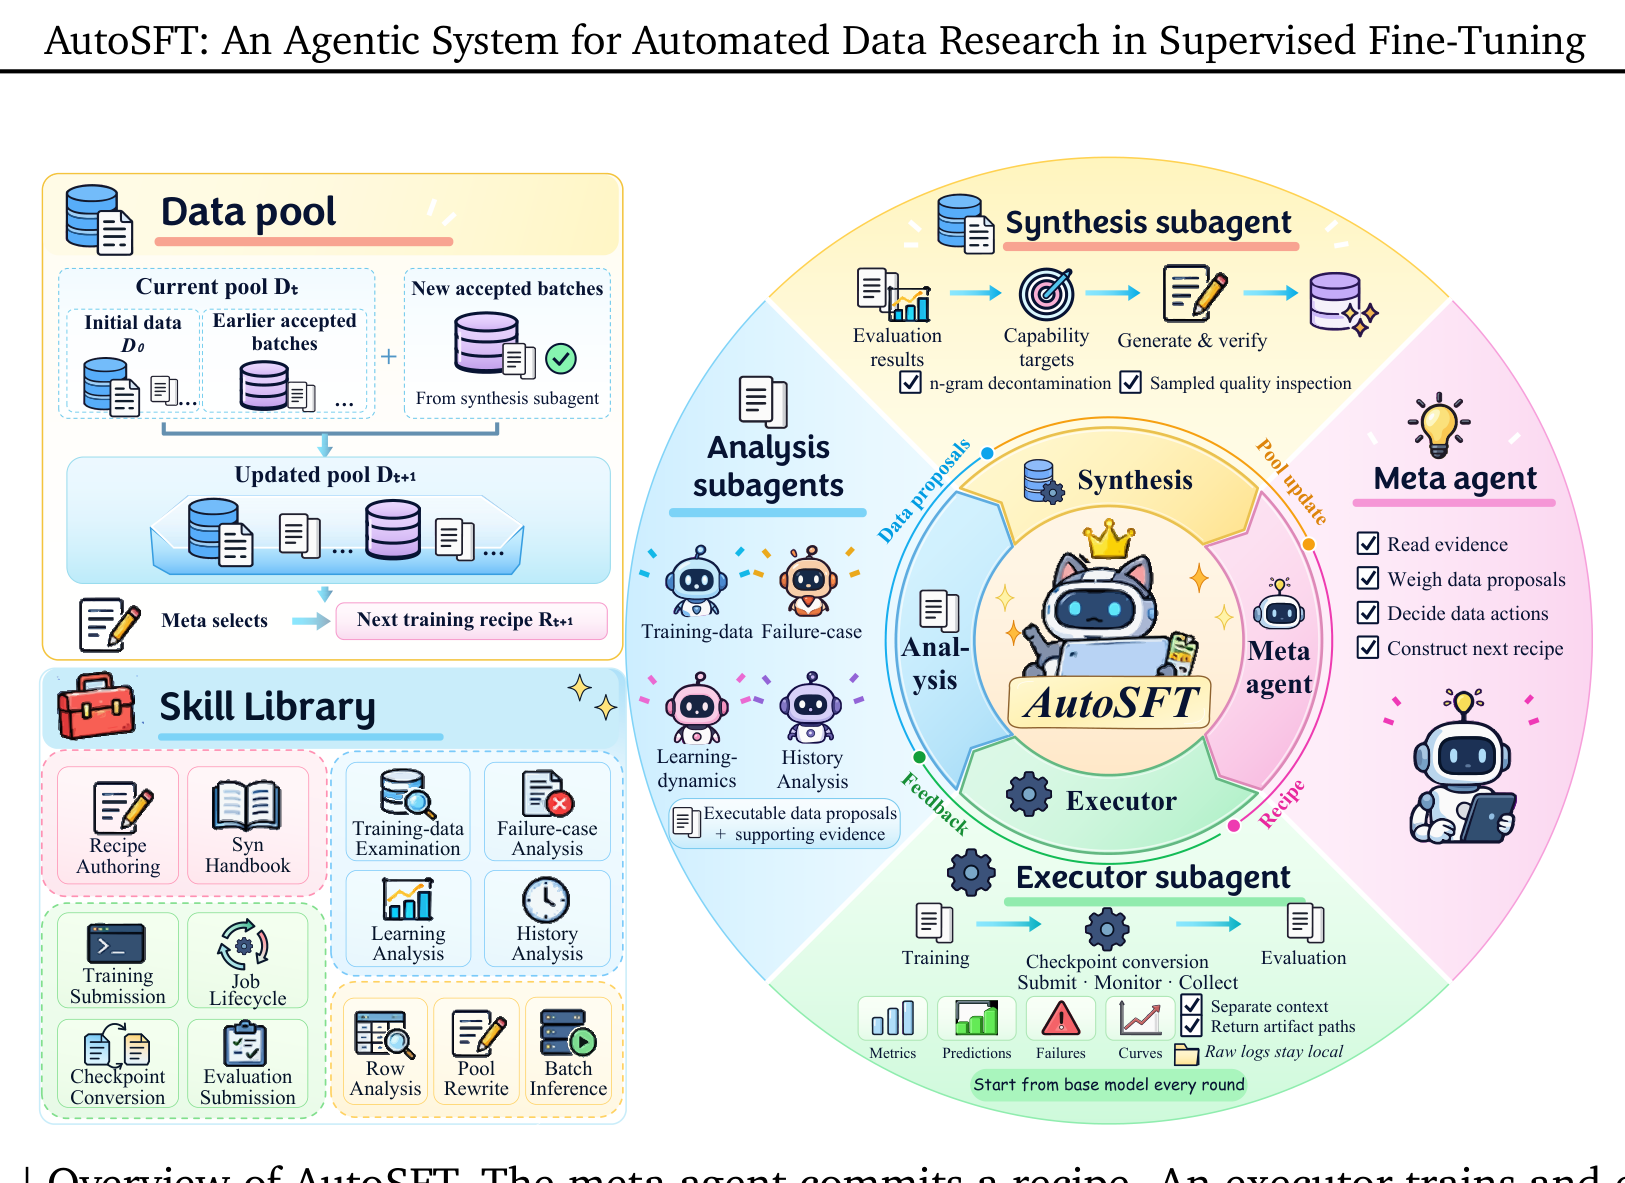
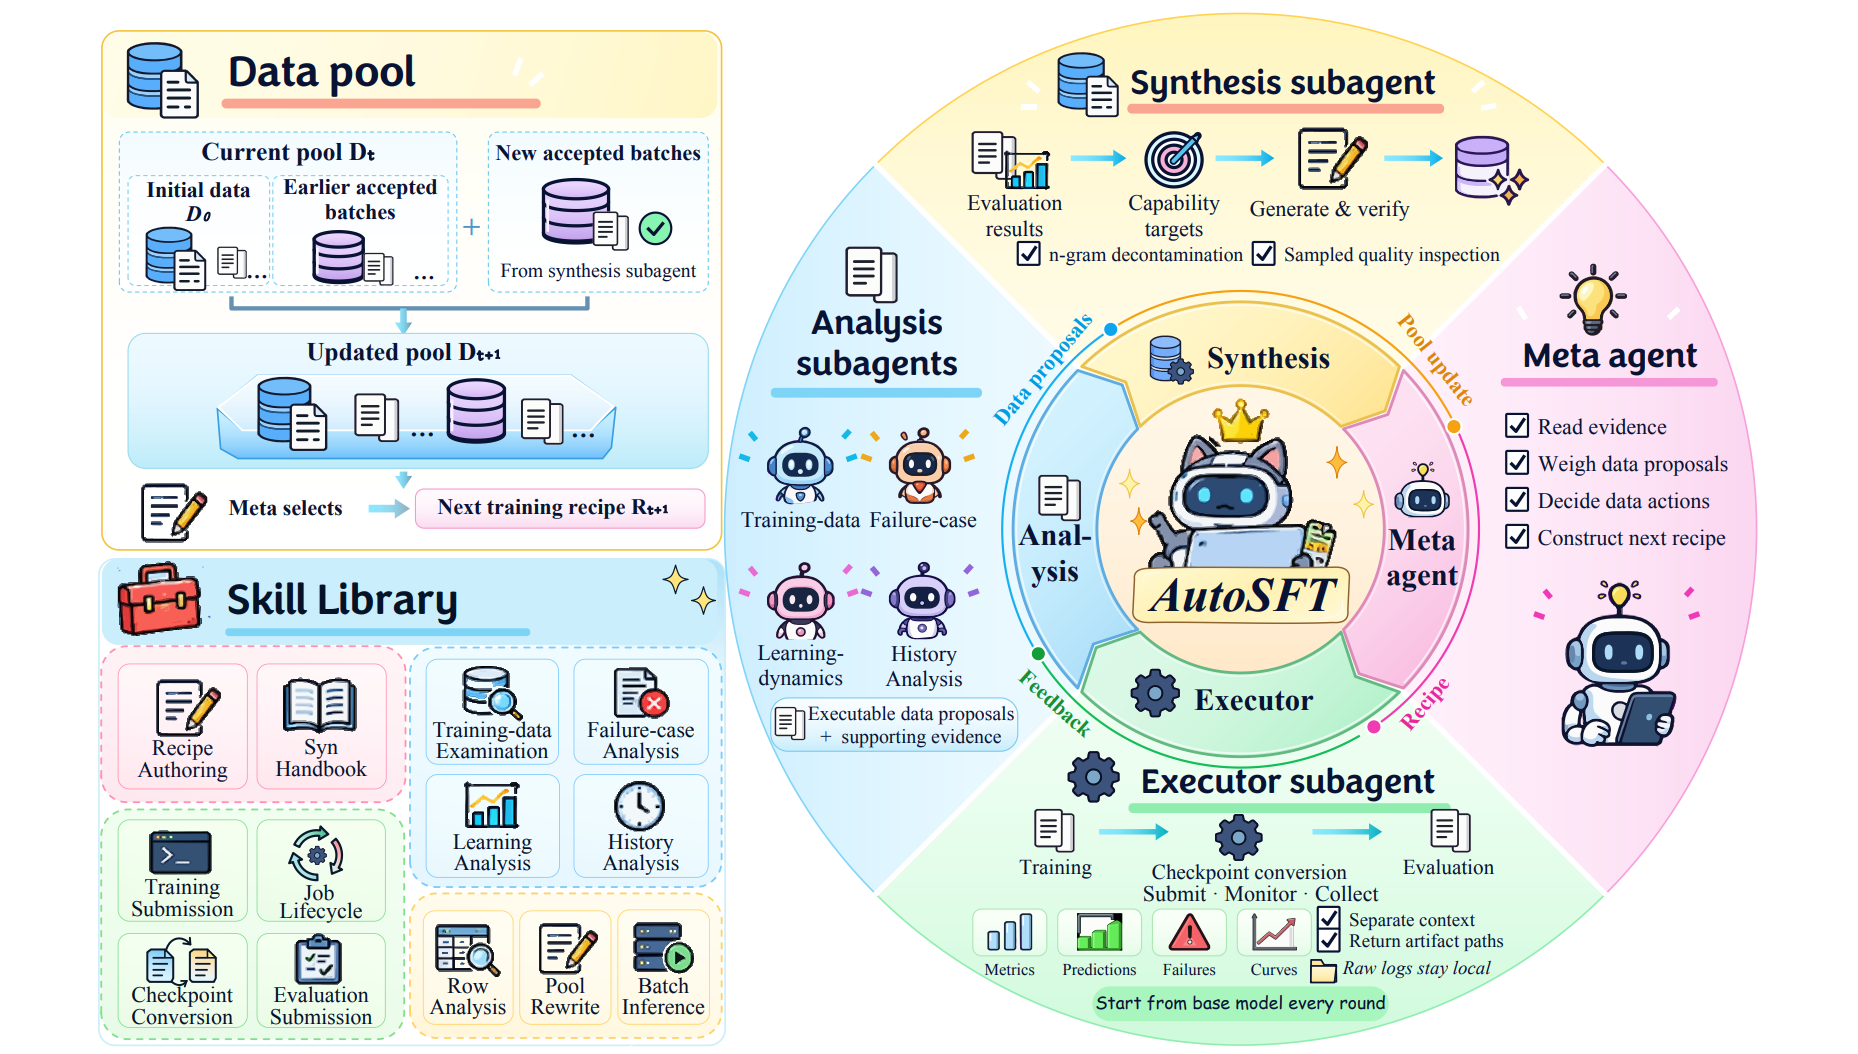
update info

diff --git a/README.md b/README.md
@@ -1,6 +1,6 @@
 <div align="center">
 
-# AutoSFT: An Agentic System for Automated Data Research<br>in Supervised Fine-Tuning
+# AutoSFT: An Agentic System for Automated Data Research in Supervised Fine-Tuning
 
 [![Paper](https://img.shields.io/badge/Paper-A42C25?style=for-the-badge&logo=arxiv&logoColor=white)](https://arxiv.org/pdf/2610.22194) [![GitHub](https://img.shields.io/badge/AutoSFT-000000?style=for-the-badge&logo=github&logoColor=white)](https://github.com/Thinking-Space/AutoSFT) [![Hugging Face Daily Paper](https://img.shields.io/badge/Daily--Paper-fcd022?style=for-the-badge&logo=huggingface&logoColor=000)](https://huggingface.co/papers/2610.22194) [![X Thread](https://img.shields.io/badge/X--Thread-000000?style=for-the-badge&logo=x&logoColor=white)](https://x.com/HBX_hbx/status/2110969562271482355)
 
@@ -30,11 +30,11 @@
 
 ![AutoSFT: a meta agent coordinates execution, analysis and synthesis](figs/overview.png)
 
-AutoSFT is the first implementation of **RSI-Service**, a research service between a human objective and the code that trains AI. A user states a goal and a resource limit; agents prepare data, run experiments, inspect evidence and decide what to try next. This study focuses on SFT data research while keeping the base model, training algorithm and evaluation protocol fixed. The service is organized so further optimization domains can share its objectives, task lifecycle and experiment history.
+AutoSFT is the first implementation of **RSI-Service**, a research service between a human objective and the code that trains AI. A user states a goal and a resource limit, while agents prepare data, run experiments, inspect evidence and decide what to try next. This study focuses on SFT data research while keeping the base model, training algorithm and evaluation protocol fixed. The service is organized so further optimization domains can share its objectives, task lifecycle and experiment history.
 
 The meta agent owns the data decision. An executor handles training, checkpoint conversion and evaluation in a separate context. Four analysis subagents examine training data, failure cases, learning dynamics and research history, each returning an executable proposal. A synthesis subagent creates supervision for undersupplied capabilities. These components are independently configurable, and every normal training round starts from the same base model.
 
-Our empirical study finds that an unstructured agent explores little of the available data space and often overattributes score changes to its latest intervention. Separating execution from research and adding complementary analysis improves its behavior, while synthesis helps some capabilities and remains uneven on code. The paper's six data-action families are retrospective labels for analyzing realized changes; they are not an operator menu injected into the agent.
+Our empirical study finds that an unstructured agent explores little of the available data space and often overattributes score changes to its latest intervention. Separating execution from research and adding complementary analysis improves its behavior, while synthesis helps some capabilities and remains uneven on code. The paper's six data-action families are retrospective labels for analyzing realized changes.
 
 <a id="getting-started"></a>
 
@@ -42,11 +42,7 @@ Our empirical study finds that an unstructured agent explores little of the avai
 
 ### Environment Setup
 
-Activate a Python environment with a PyTorch/CUDA build selected for your GPU
-and driver. Install Transformer Engine with the pinned Megatron checkout's
-requirement `>=2.6.0a0,<2.8.0`, and install FlashAttention against that exact
-same PyTorch/CUDA ABI. Verify `torch`, `transformer_engine.pytorch` and
-`flash_attn` import before installing the Python requirements:
+Activate a Python environment with a PyTorch/CUDA build selected for your GPU and driver. Install Transformer Engine with the pinned Megatron checkout's requirement `>=2.6.0a0,<2.8.0`, and install FlashAttention against that exact same PyTorch/CUDA ABI. Verify `torch`, `transformer_engine.pytorch` and `flash_attn` import before installing the Python requirements:
 
 ```bash
 python - <<'PY'
@@ -56,7 +52,7 @@ print("native training extensions imported")
 PY
 ```
 
-Then install the training dependencies from `scripts/local/requirements-train.txt`. For evaluation, install a vLLM-supported PyTorch/CUDA pair first in a dedicated environment, then install `scripts/local/requirements-eval.txt`; that file pins vLLM and Transformers but cannot select the correct native ABI for every GPU or PyTorch build. AutoSFT uses the active Python for data preparation, training and conversion by default; evaluation can use a separate interpreter when vLLM needs a different PyTorch build. Follow [runtime setup](docs/local-runtime.md) before installing native dependencies. The paper uses Qwen3-1.7B-Base and eight NVIDIA H800 GPUs for training, with one H800 for evaluation.
+Then install the training dependencies from `scripts/local/requirements-train.txt`. For evaluation, install a vLLM-supported PyTorch/CUDA pair first in a dedicated environment, then install `scripts/local/requirements-eval.txt`; that file pins vLLM and Transformers but cannot select the correct native ABI for every GPU or PyTorch build. AutoSFT uses the active Python for data preparation, training and conversion by default; evaluation can use a separate interpreter when vLLM needs a different PyTorch build. Follow [runtime setup](docs/local-runtime.md) before installing native dependencies. The paper uses Qwen3-1.7B-Base and 8 NVIDIA H800 GPUs for training, with 1 H800 for evaluation.
 
 ```bash
 pip install -e .
@@ -195,24 +191,6 @@ autosft round \
 
 </details>
 
-<a id="paper-results"></a>
-
-## 📊 Paper Results
-
-| Comparison | Metric | Without component | With component |
-| --- | --- | ---: | ---: |
-| Analysis, equal first 30 rounds | IFEval | 60.60 | 67.10 |
-| Synthesis | IFEval | 78.15 | 81.58 |
-| Synthesis | IFBench | 49.02 | 51.95 |
-| Analysis on code | MBPP+ | 61.11 | 65.78 |
-| Synthesis on code, added after analysis | MBPP+ | 65.78 | 64.81 |
-
-The executor reduces meta-agent compactions from ten to five over the compared snapshots. The analysis baseline reaches 62.35 when extended to 50 rounds; the first row compares both runs' first 30 rounds. These numbers are reported by the paper. The repository provides the experiment protocols; original search traces and exact data snapshots are not bundled.
-
-Supported benchmarks are `ifeval`, `ifbench`, `humaneval_plus` and `mbpp_plus`. Paper presets use local vLLM generation with OpenCompass instruction-following scorers or EvalPlus code scoring. Custom code experiments can select SGLang through the evaluation block.
-
-See [architecture](docs/architecture.md), [the experiment contract](AGENTS.md) and [the skill catalog](skills/README.md) for implementation boundaries and role procedures.
-
 <a id="citation"></a>
 
 ## 🎈 Citation
@@ -228,4 +206,3 @@ If you find this work helpful, please cite us:
 }
 ```
 
-AutoSFT is released under the [MIT License](LICENSE). Third-party components retain their upstream licenses.
